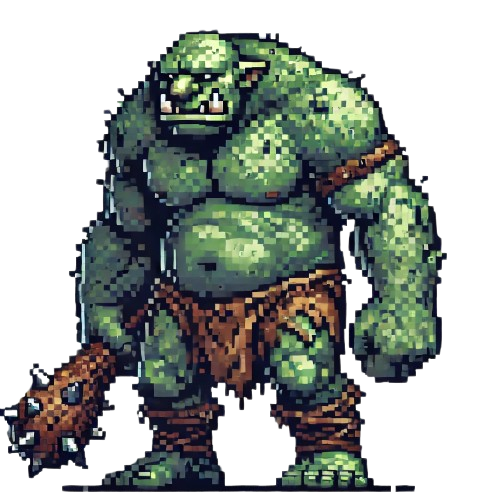
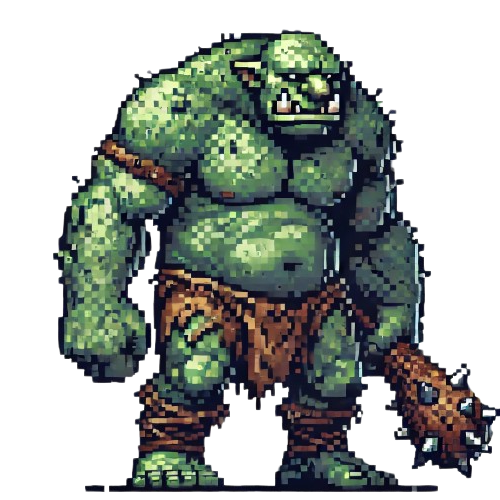
added hunting monster support, fixed monster images to face player

diff --git a/public/js/v2/engine/tablePainter.js b/public/js/v2/engine/tablePainter.js
@@ -108,12 +108,13 @@ function drawEnemy(position, enemy) {
         oImg.setAttribute('src', enemy.imgSrc); 
         oImg.style.position = 'absolute';
         oImg.style.top = '-50%';
-        oImg.style.left = '-50%';
+        
         const size = new Number(square.offsetWidth) * enemy.size;
         console.log("MONSTER SIZE: " + size);
         console.log(square.offsetWidth, enemy.size)
+        oImg.style.left = '-'+(size/1.5 + 'px');
 
-        oImg.setAttribute('width', (size + 'px')); //size has to be variable since the whole grid is responsive.
+        oImg.style.width = (size + 'px'); //size has to be variable since the whole grid is responsive.
 
     square.appendChild(oImg);
 }
@@ -206,9 +207,9 @@ function displayPlayer(position) {
     const square = document.getElementById(squareId);
     var oImg = document.createElement("img");
     if (gameState.gender == 'm')
-        oImg.setAttribute('src', 'images/v2/characters/barbarian_m.png'); //164 x 300
+        oImg.setAttribute('src', 'images/v2/characters/barbarian_m_left.png'); //164 x 300
     if (gameState.gender == 'f')
-        oImg.setAttribute('src', 'images/v2/characters/barbarian_f.png')
+        oImg.setAttribute('src', 'images/v2/characters/barbarian_f_left.png')
         oImg.style.width = (parseInt(square.style.width, 10) * 164 / 300) * 1.33 + 'px'; //size has to be variable since the whole grid is responsive.
 
     square.appendChild(oImg);
@@ -253,15 +254,40 @@ function displayCharacterMenu(maintainVisibility = false) {
     if (gameState.skills.find(x => x.name == 'Stealth')) {
         const stealthDiv = document.createElement('div');
         //TODO: Add style for when the answer is true vs. false. 
-        stealthDiv.innerHTML = "[<span class='logOption'>S</span>]tealth active: " + gameState.stealth;
+        stealthDiv.innerHTML = "[<span class='logOption'>S</span>]tealth active: <span class='logEmphasis'>" + gameState.stealth + "</span>";
         characterOptions.appendChild(stealthDiv);
     }
 
     if (gameState.skills.find(x => x.name == 'Big Game Hunter')) {
         const hunterDiv = document.createElement('div');
-        hunterDiv.innerHTML = "[<span class='logOption'>H</span>]unt a creature: " + gameState.bigGameHunter;
-        //TODO: add selection from defeated monsters.
+        hunterDiv.id = 'hunterDiv';
+        const hunterOption = document.createElement('span');
+        hunterOption.innerHTML = "[<span class='logOption'>H</span>]unt a creature: " + gameState.bigGameHunter;
+        hunterDiv.appendChild(hunterOption);
+        const hunterSelect = document.createElement('select');
+        hunterSelect.name = 'bigGameHunterSelect';
+        hunterSelect.id = 'bigGameHunterSelect';
         characterOptions.appendChild(hunterDiv);
+        hunterDiv.appendChild(hunterSelect);
+        hunterSelect.onchange = () => {
+            console.log('setting quarry to: ' + hunterSelect.value);
+            gameState.bigGameHunterQuarry = hunterSelect.value;
+        }
+        //TODO: add selection from defeated monsters.
+        const enemiesToHunt = gameState.uniqueEnemiesDefeated;
+        const noOpt = document.createElement('option');
+        noOpt.value = 'none';
+        noOpt.text = 'Select an option';
+        hunterSelect.appendChild(noOpt);
+        enemiesToHunt.forEach(e => {
+            const opt = document.createElement('option');
+            opt.value = e;
+            opt.text = e;
+            if (e == gameState.bigGameHunterQuarry) opt.selected = true;
+            hunterSelect.appendChild(opt);
+        });
+       
+        
     }
     
     

diff --git a/public/js/v2/engine/gameloop.js b/public/js/v2/engine/gameloop.js
@@ -118,6 +118,18 @@ function initiateCombat(monsters, logFunc, levelRangeMod = 0) {
         console.log(monsters.length + " monsters: chose monster: " + enemyChoice);
         let enemyBase = (gameConfig.onlyDragons) ? monsters[3] : monsters[enemyChoice];
         
+        if (gameState.skills.find(x => x.name == 'Big Game Hunter') && gameState.bigGameHunter && gameState.bigGameHunterQuarry) {
+            const quarryRoll = Math.floor(Math.random() * 100 + 1);
+            if (quarryRoll <= gameConfig.chanceToFindQuarry) {
+                const quarry = monsters.find(x => x.name == gameState.bigGameHunterQuarry); //This handles boss monsters well because you won't get boss monsters on your hunter's list and thus can't specifically hunt them...when rolling a boss combat this will never find a match.
+                if (quarry) {
+                    GameLog("<span class='logEmphasis'>You have found your quarry!</span>", "COMBAT");
+                    displayLog();
+                    enemyBase = quarry;
+                }
+            } 
+        }
+
         const enemy = Object.assign({}, enemyBase);
         enemy.level = gameState.position.z + levelRangeMod + Math.floor(Math.random() * 4 + 1); //level + 1-4 (dungeons start at level 0)
         

diff --git a/public/js/v2/monsters/monsters.js b/public/js/v2/monsters/monsters.js
@@ -60,9 +60,9 @@ const BossMonsters = [
 
 const Monsters = [
     {name: 'Troll', imgSrc: monsterImgFolder + 'troll.png', size: 1.1, baseHp: 6, power: 3, boss:BossMonsters[1].name},
-    {name: 'Mountain Troll', imgSrc: monsterImgFolder + 'troll_blue.png', size: 1.25, baseHp: 8, power: 4, boss:BossMonsters[1].name},
+    {name: 'Mountain Troll', imgSrc: monsterImgFolder + 'troll_mountain.png', size: 1.25, baseHp: 8, power: 4, boss:BossMonsters[1].name},
     {name: 'Zombie', imgSrc: monsterImgFolder + 'zombie.png', size: 0.75, baseHp: 4, power: 1},
-    {name: 'Red Dragon', imgSrc: monsterImgFolder + 'reddragon-1.png', size:1.25, baseHp: 10, power:5, specialAttackImg: monsterImgFolder + 'dragonfire.png', boss: BossMonsters[0].name},
+    {name: 'Red Dragon', imgSrc: monsterImgFolder + 'reddragon.png', size:1.25, baseHp: 10, power:5, specialAttackImg: monsterImgFolder + 'dragonfire.png', boss: BossMonsters[0].name},
     {name: 'Lizardfolk', imgSrc: monsterImgFolder + 'lizardfolk.png', size:0.6, baseHp: 10, power: 2, boss:BossMonsters[2].name},
     {name: 'Skeleton', imgSrc: monsterImgFolder + 'skeleton.png', size: 1, baseHp: 6, power: 2, boss:BossMonsters[3].name}
 ];

diff --git a/public/js/v2/engine/gameState.js b/public/js/v2/engine/gameState.js
@@ -6,7 +6,8 @@ let gameConfig = {
     onlyDragons: false,
     percentChanceOfDragonFire: 40,
     showFeatures: false,
-    startWithSkills: true
+    startWithSkills: false,
+    chanceToFindQuarry: 25,
 }
 
 const initialGameState = {
@@ -28,13 +29,16 @@ const initialGameState = {
     fireResist: 1,
     gold: 1000,
     beSafe: true,
-    stealth: true, //only matters if the character has the stealth skill
+    stealth: false, //only matters if the character has the stealth skill
     bigGameHunter: false, //only matters with the BigGameHunter skill
+    bigGameHunterQuarry: '',
     log: [],
     skills: [],
     characterOptionsOpen: false,
+    enemiesDefeated: [],
+    uniqueEnemiesDefeated: new Set(),
     dungeonStats:[buildDungeonLevelStats(0), buildDungeonLevelStats(1), buildDungeonLevelStats(2), buildDungeonLevelStats(3), buildDungeonLevelStats(4)],
-    dungeonKnowledge:[true, true, true, true , true, true],
+    dungeonKnowledge:[],
     bossesDefeated: [],
     lastThroneEvent: new Date() - (60000 * 5), //5 min ago
     roomsVisited: {} //each index will be a list of that dungeon level's rooms

diff --git a/public/js/v2/events/combat_event.js b/public/js/v2/events/combat_event.js
@@ -94,7 +94,11 @@ function handleCombatWin() {
         console.log("BOSS DEFEATED: " + gameState.enemy.name);
         //TODO: We don't want to have enemies cower forever so we likely need to record boss defeat and what dungeon level.
         gameState.bossesDefeated.push(gameState.enemy.name);
+    } else {
+        gameState.enemiesDefeated.push({name: gameState.enemy.name, level: gameState.enemy.level});
+        gameState.uniqueEnemiesDefeated.add(gameState.enemy.name);
     }
+
     const exp = monsterExp(gameState.enemy);
     GameLog("You have defeated the " + gameState.enemy.name + ". You gain <span class='logExperience'>" + exp + "</span> experience.", "COMBAT VICTORY");
     displayLog();

diff --git a/public/css/v2/simplegrid_v2.css b/public/css/v2/simplegrid_v2.css
@@ -141,6 +141,9 @@ index_v2.html
     border-radius: 1em;
     border: 5px solid black;
     background-color: white;
+    z-index: 21;
+    text-align: left;
+    padding: 0 1em;
 }
 
 .tableGridContainer .specialEvent {
@@ -166,6 +169,14 @@ index_v2.html
     border: 5px solid black;
     background-color: white;
     display: none;
+    z-index: 20;
+    text-align: left;
+    padding: 0 3em;
+}
+
+#characterOptions select {
+    display: inline;
+    margin-left: 1em;
 }
 
 .windowTitle {
@@ -173,6 +184,7 @@ index_v2.html
     font-weight: bold;
     font-variant: small-caps;
     margin-bottom: 1em;
+    text-align: center;
 }
 
 .westWall {
